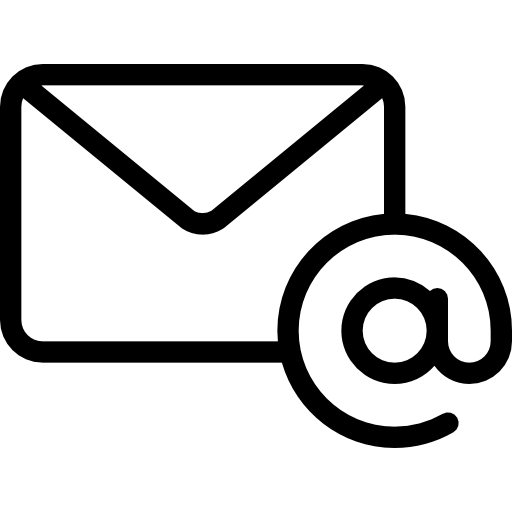
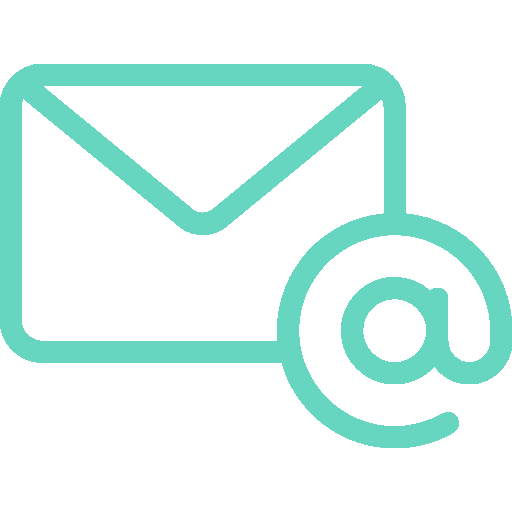
Finished footer and clean the rest of the code
Finished the footer section and made it responsive. Clean the rest of the code (mostly the styling).

Changed region(s): [[0.0, 0.125, 1.0, 0.875]]

diff --git a/site-personal/src/index.css b/site-personal/src/index.css
@@ -1,69 +1,68 @@
-body {
+:root { /* for color consistency */
+  --green: rgb(105, 215, 195);
+  --darkgreen: rgb(70, 170, 150);
+}
+body { 
   margin: 0;
   min-height: 100%;
   max-height: 100%;
   font-family: "Open-sans", Verdana, Helvetica, Arial;
   font-weight: 100;
+  word-wrap: break-word;
 }
-.navBar {
-  /* position: fixed; */
+/* header section */
+header {
+  position: relative;    
   z-index: 1;
-  line-height: 65px;
+  display: block;
+  height: 65px;
+  width: 100%;
+  background-color: #333;  
   margin: 0 0 5px 0;
 }
-
+.navBar {
+  position: fixed; 
+  line-height: 65px;
+}
 .navBar ul {
   list-style-type: none;
   display: flex;
   align-content: center;
   justify-content: left;
-  background-color: #333;
   margin: 0;
   padding: 0 30px;
 }
-
 .navBar li {
   cursor: pointer;
-  background-color: rgb(105, 215, 195);
+  background-color: var(--green);
   transition: background-color 300ms linear 0s;
   align-items: center;
   justify-content: center;
 }
-
-.navBar li.active {}
-
 .navBar li div {
   padding: 0px 10px;
   text-decoration: none;
   color: black;
 }
-
 .navBar li:hover {
-  background-color: rgb(70, 170, 150);
+  background-color: var(--darkgreen);
 }
-
+/* footer section */
 footer {
-  padding: 5px 10px;
   margin: 5px 0 0 0;
   background-color: #333;
   color: #666;
-  display: table;
+  display: grid;
+  gap: 10px;
   width: 100%;
+  padding: 0 10px 0 10px;
 }
-
-footer div {
-  width: 50%;
-  float: left;
-}
-
 footer div a {
   color: #666;
 }
-
 footer div a:hover{
   color:#b4b4b4;
 }
-
 footer div img {
   max-height: 20px ;
   margin-right: 5px;
@@ -73,11 +72,13 @@ footer div span {
   align-items: center;
   margin: 5px 0;
 }
-
-.footer-left {
-  margin-right: -50%;
+footer div hr {
+  background-color: var(--green);
+  border-color: var(--green);
+  margin-right: 50px;
 }
-
-.footer-right {
-  margin-left: 50%;
+@media only screen and (min-width: 959px){
+  footer{
+    grid-template-columns: 1fr 1fr;
+  }
 }

diff --git a/site-personal/src/Footer.js b/site-personal/src/Footer.js
@@ -3,31 +3,22 @@ function Footer() {
     return (
         <footer>
             <div className="footer-left">
-                <p>
-                    Last modified 6 May 2024
-                </p>
-                <hr style={{marginRight: 50}}/>
-                <p>
-                    The purpose of this website is for me to learn to use the React library  
-                </p>
-            </div>
+                <p> Last modified: 7th of May 2024
+                    <hr />
+                    The purpose of this website is for me to learn to use the React library </p> </div>
             <div className="footer-right">
-                <p>
-                        Contact information:<br />
-                    <span><img src={require("./assets/email.png")} alt={"email-icon"}/>
+                       <p> Contact information:<hr />
+                    <span> <img src={require("./assets/email.png")} alt={"email-icon"}/>
                         Email: despina.andrei2003@gmail.com
                     </span>
-                    <span><img src={require("./assets/telephone.png")} alt={"phone-icon"}/>
+                    <span> <img src={require("./assets/telephone.png")} alt={"phone-icon"}/>
                         Phone number: (+40)737 631 851
                     </span>
-                    <span><img src={require("./assets/linkedin.png")} alt={"linkedin-icon"}/> Linkedin:
-                    <a href="https://www.linkedin.com/in/dumitru-andrei-despina/">
+                    <span> <img src={require("./assets/linkedin.png")} alt={"linkedin-icon"}/>
+                    Linkedin: <a href="https://www.linkedin.com/in/dumitru-andrei-despina/">
                         www.linkedin.com/in/dumitru-andrei-despina
-                    </a></span>
-                </p>
-            </div>
+                    </a> </span> </p> </div>
         </footer>
     );
 }
-
 export default Footer
